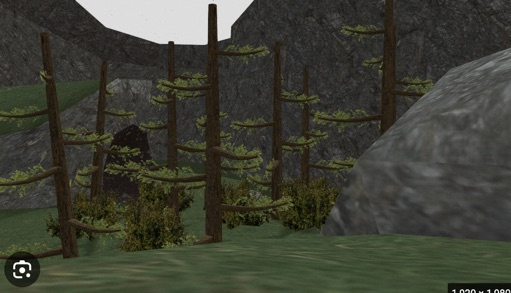
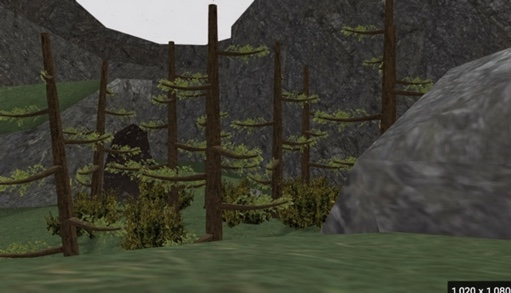
Rename game to Gorilla Fun

diff --git a/index.html b/index.html
@@ -3,7 +3,7 @@
 <head>
 <meta charset="UTF-8">
 <meta name="viewport" content="width=device-width, initial-scale=1.0">
-<title>Banana Dodge</title>
+<title>Gorilla Fun</title>
 <link rel="icon" type="image/svg+xml" href="favicon.svg?v=1">
 <link rel="stylesheet" href="banana-dodge.css">
 </head>
@@ -27,7 +27,7 @@
 <div id="startOverlay" class="overlay splash">
   <div class="splash-card">
     <p class="splash-kicker">A jungle crossing game</p>
-    <h1 class="splash-title"><span class="splash-title-top">Banana</span><span class="splash-title-bottom">Dodge</span></h1>
+    <h1 class="splash-title"><span class="splash-title-top">Gorilla</span><span class="splash-title-bottom">Fun</span></h1>
     <div class="splash-stage">
       <canvas id="splashDancer" role="img" aria-label="Your gorilla, dancing while it waits for you to play"></canvas>
     </div>

diff --git a/CLAUDE.md b/CLAUDE.md
@@ -2,7 +2,7 @@
 
 This file provides guidance to Claude Code (claude.ai/code) when working with code in this repository.
 
-# Banana Dodge
+# Gorilla Fun
 
 A Frogger-style browser game: a monkey crosses jungle lanes of thrown
 bananas and tumbling sticks, dodging poop the three gorillas randomly
@@ -53,7 +53,9 @@ The game lives in three files:
   the body markup: the HUD, the `<canvas id="game">`, the on-screen d-pad,
   three full-screen overlays (`#startOverlay`, `#introOverlay`,
   `#gameOverOverlay`), the non-blocking `#levelClearOverlay` toast, and
-  the click-through `<canvas id="confetti">`.
+  the click-through `<canvas id="confetti">`. The browser tab and splash
+  screen use the current game name, "Gorilla Fun"; the legacy source
+  filenames and deployment URL remain unchanged.
 - `banana-dodge.css` — all styling (jungle color theme, HUD layout,
   d-pad grid, overlay screens, monkey-animation keyframes).
 - `banana-dodge.js` — all game logic, wrapped in a single IIFE.
@@ -164,6 +166,7 @@ Rendering is plain Canvas 2D, driven by a vanilla JS game loop
   by `drawImageCover()` across the whole canvas (band + grid) before
   anything else, scaled to cover and cropped rather than stretched, so
   the photo doesn't distort the way lane colors are allowed to stretch.
+  The source screenshot's bottom-left camera overlay has been removed.
   `drawBossBand()` no longer paints its own flat gradient — just the
   branch and leaf clusters on top of the photo. `LANE_COLORS` are
   translucent (`rgba(...)`) rather than opaque, and lighter than the raw

diff --git a/README.md b/README.md
@@ -1,4 +1,4 @@
-# Banana Dodge
+# Gorilla Fun
 
 **Play it: https://banana-dodge.vercel.app**
 
@@ -22,7 +22,8 @@ without distorting anything.
   Play Again.
 - **Move:** arrow keys or WASD, or the on-screen d-pad on touch devices.
 - **Goal:** land on an empty gap in the top row (+50 points). Gorillas and
-  already-filled gaps block you.
+  already-filled gaps block you. Gorillas already parked in other gaps clap
+  and make chimp sounds when you arrive.
 - **Watch the gorillas:** every few seconds one of the three top-hat
   gorillas beats its chest and drops poop straight down its column, and
   the party-hat boss walking the branch above them winds up and throws
@@ -31,8 +32,8 @@ without distorting anything.
   running out the 90-second crossing timer, costs a life (your gorilla spins
   with ✖✖ eyes before respawning).
 - **High scores:** your best score and highest level are saved in your
-  browser and shown on the start and game-over screens. Beat your best
-  mid-game and you get confetti.
+  browser and shown on the start and game-over screens. If you beat your
+  best, the game-over screen celebrates with a message and confetti.
 - **Music:** toggle with the 🎵 button in the top-right.
 
 ## Running it locally
